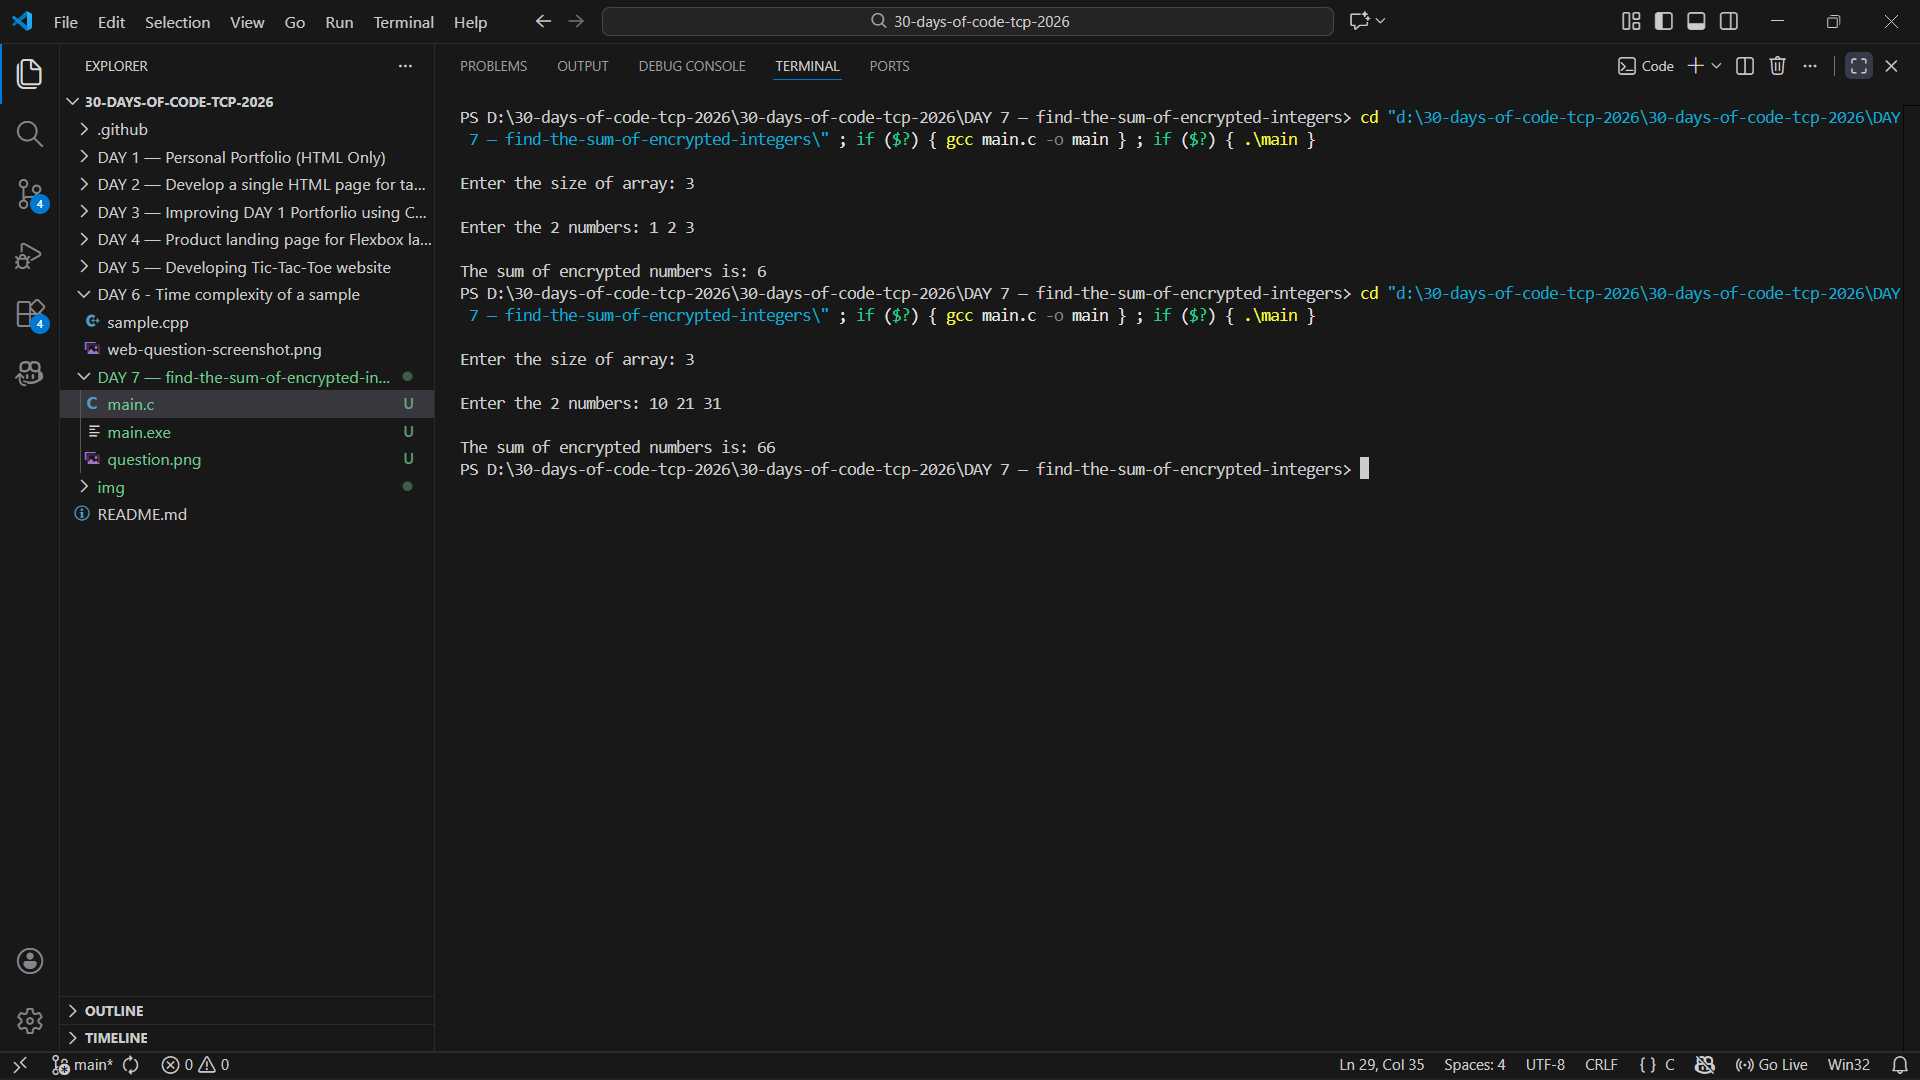
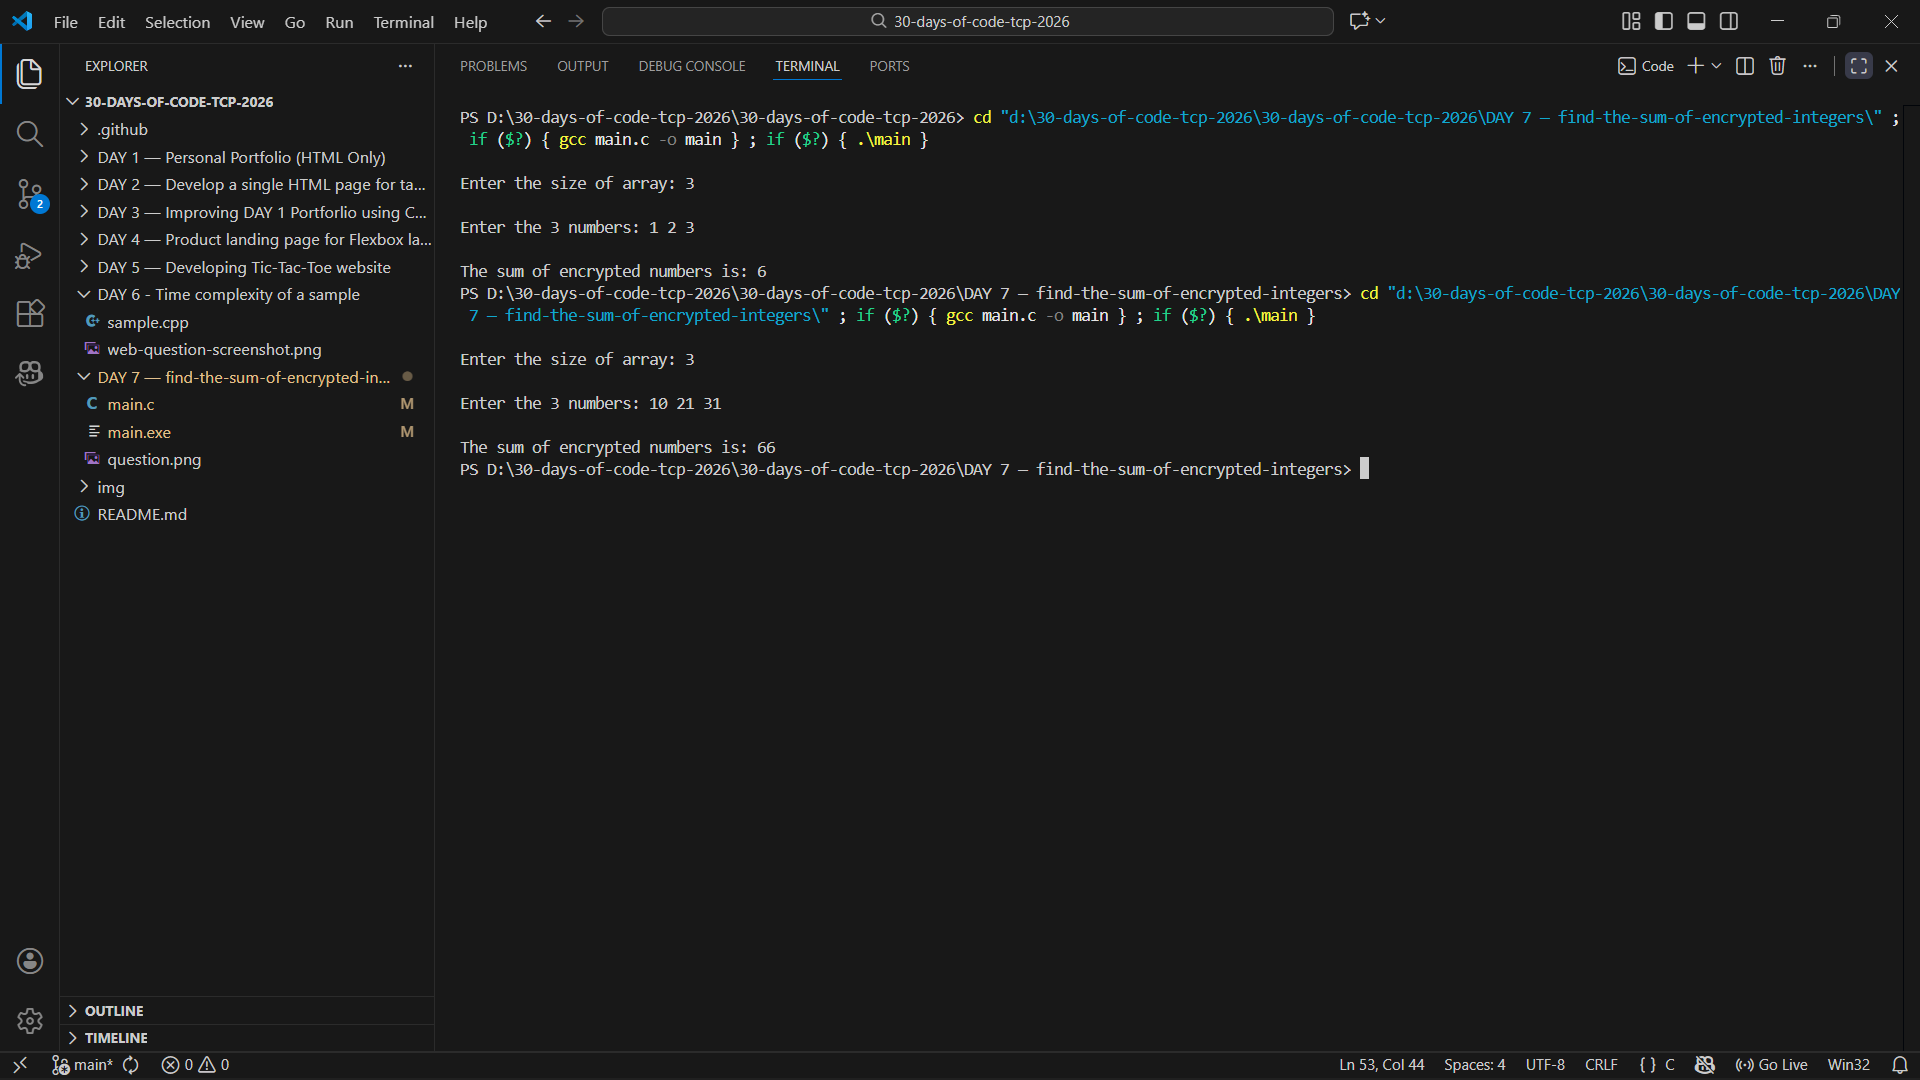
Added - 7th day

Changed region(s): [[0.25, 0.0917, 1.0, 0.1528], [0.0312, 0.3361, 0.25, 0.4278], [0.0, 0.275, 0.0312, 0.3056]]

diff --git a/DAY 7 — find-the-sum-of-encrypted-integers/main.c b/DAY 7 — find-the-sum-of-encrypted-integers/main.c
@@ -50,7 +50,7 @@ int main(){
 
     int arr[size];
 
-    printf("\nEnter the %d numbers: ");
+    printf("\nEnter the %d numbers: ", size);
     for(size_t i = 0; i < size; i++)
         scanf("%d", &arr[i]);
 
